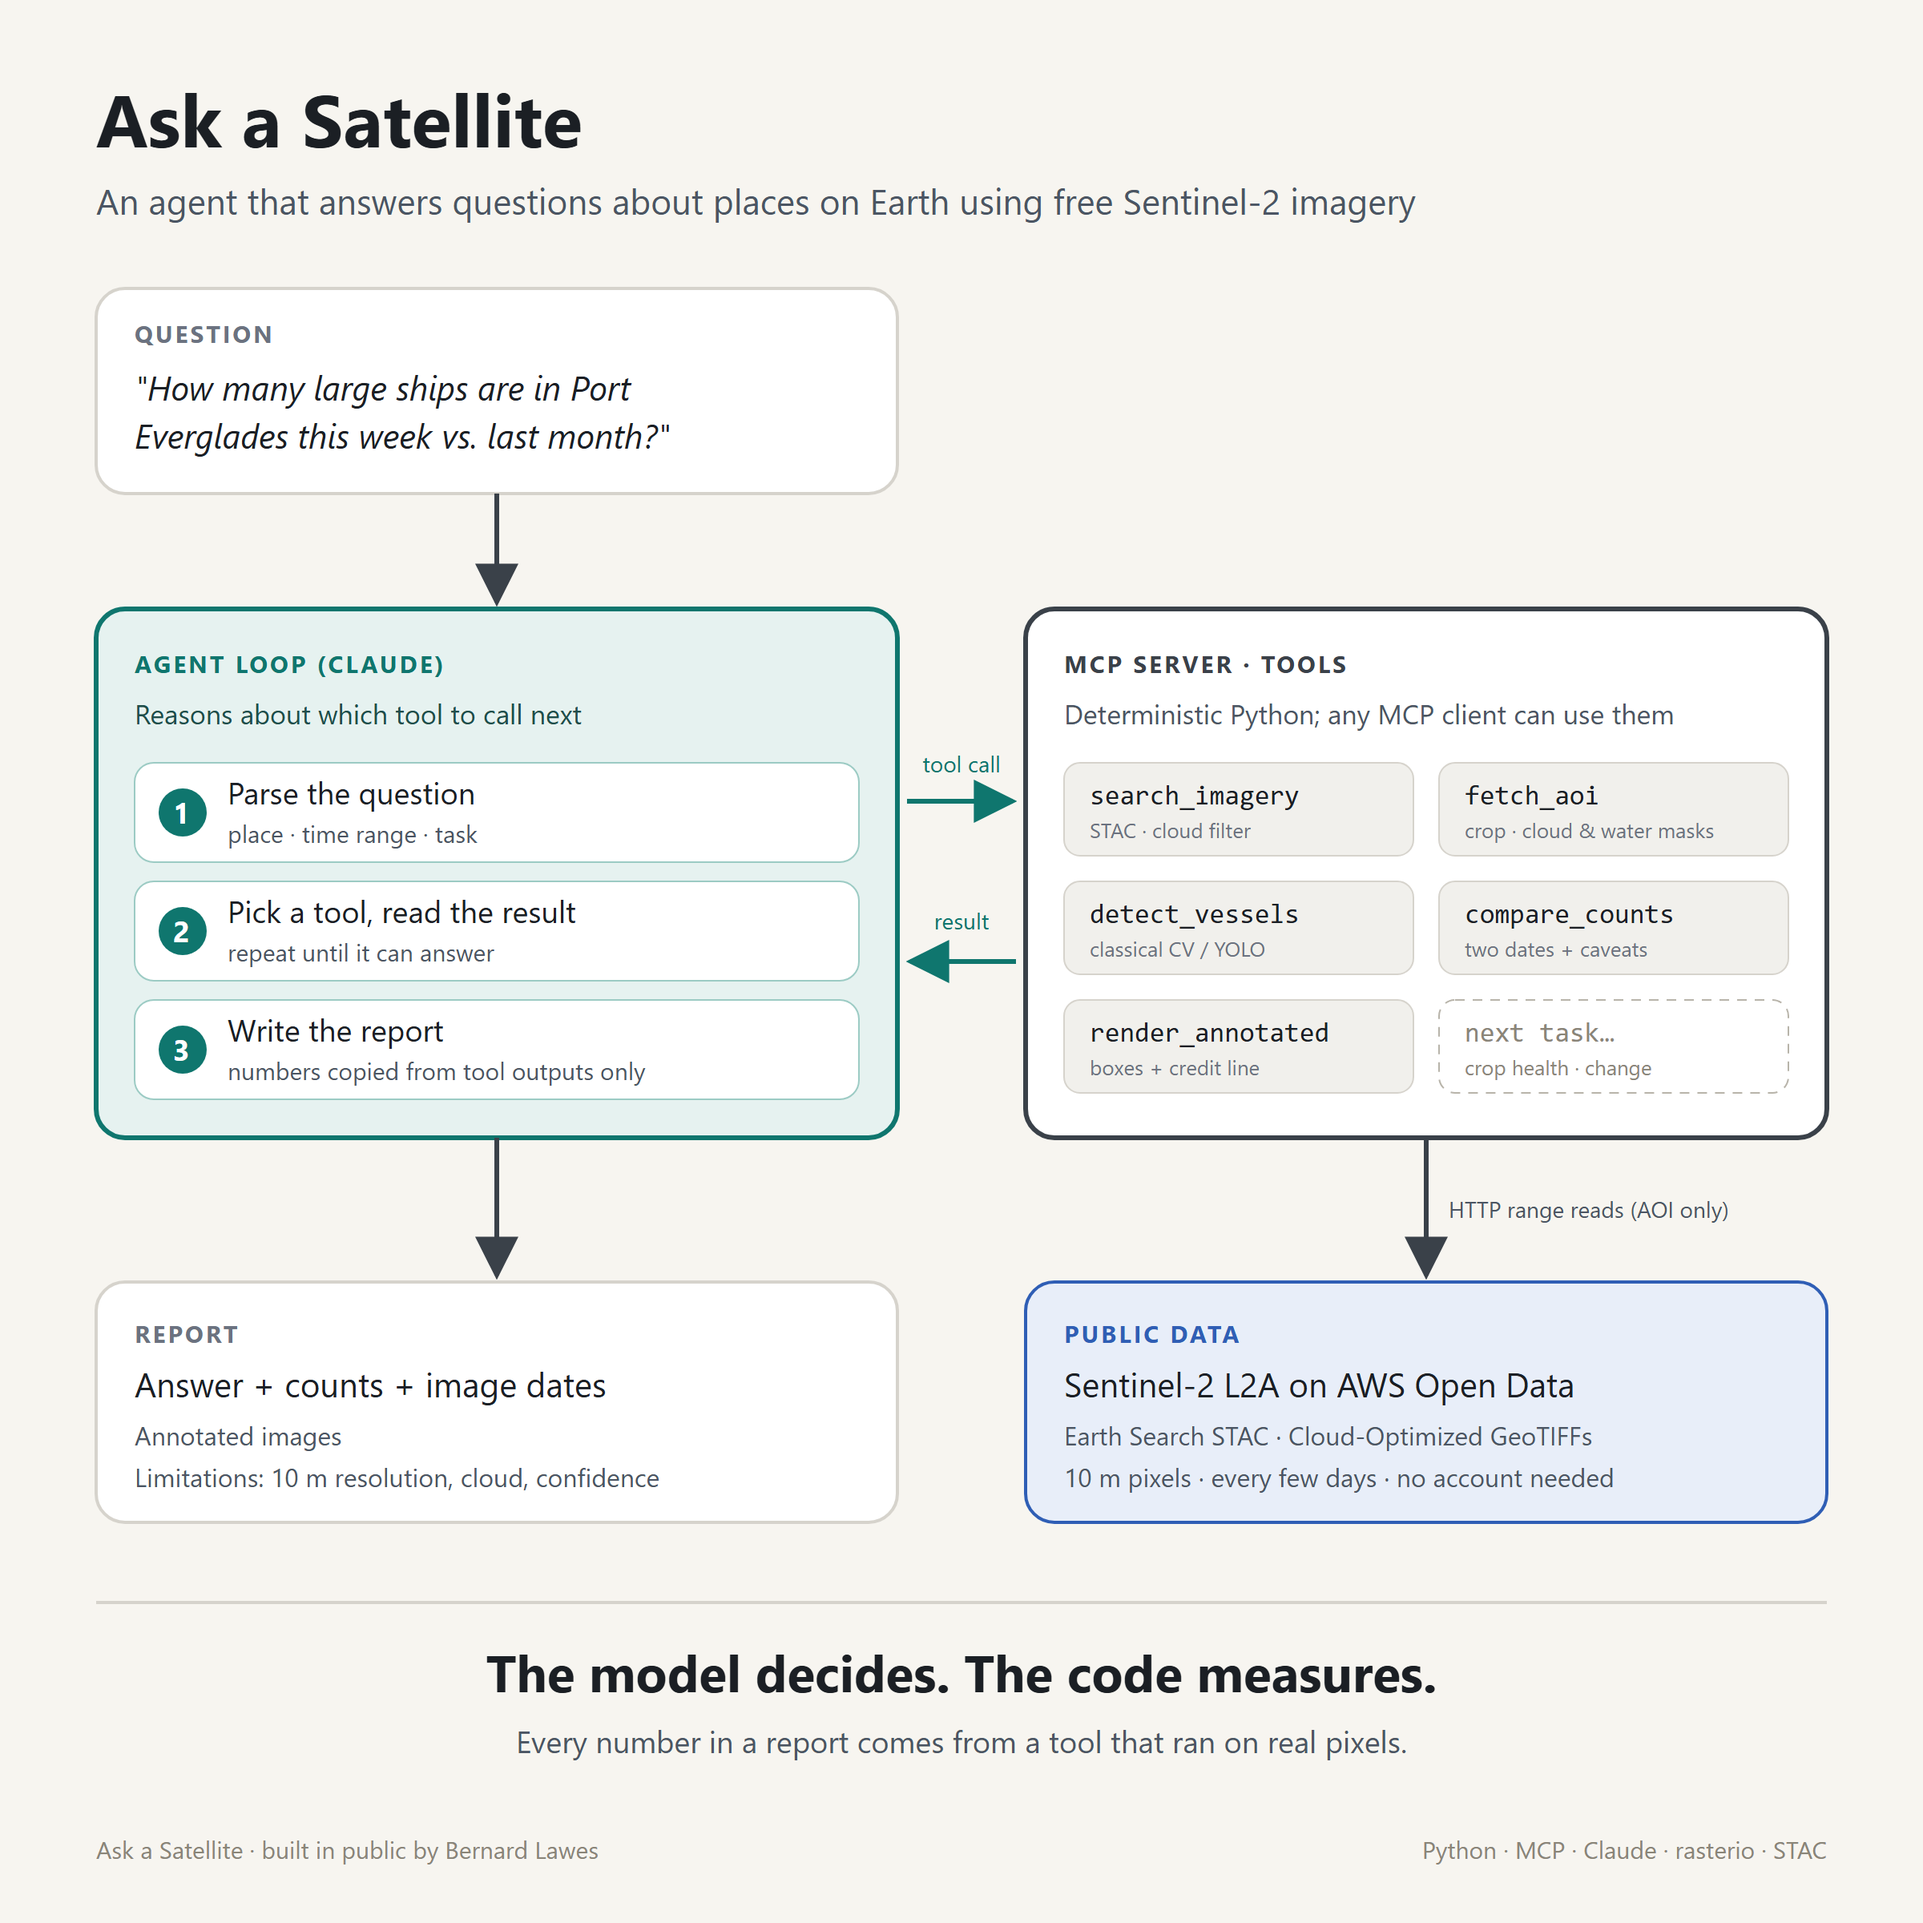
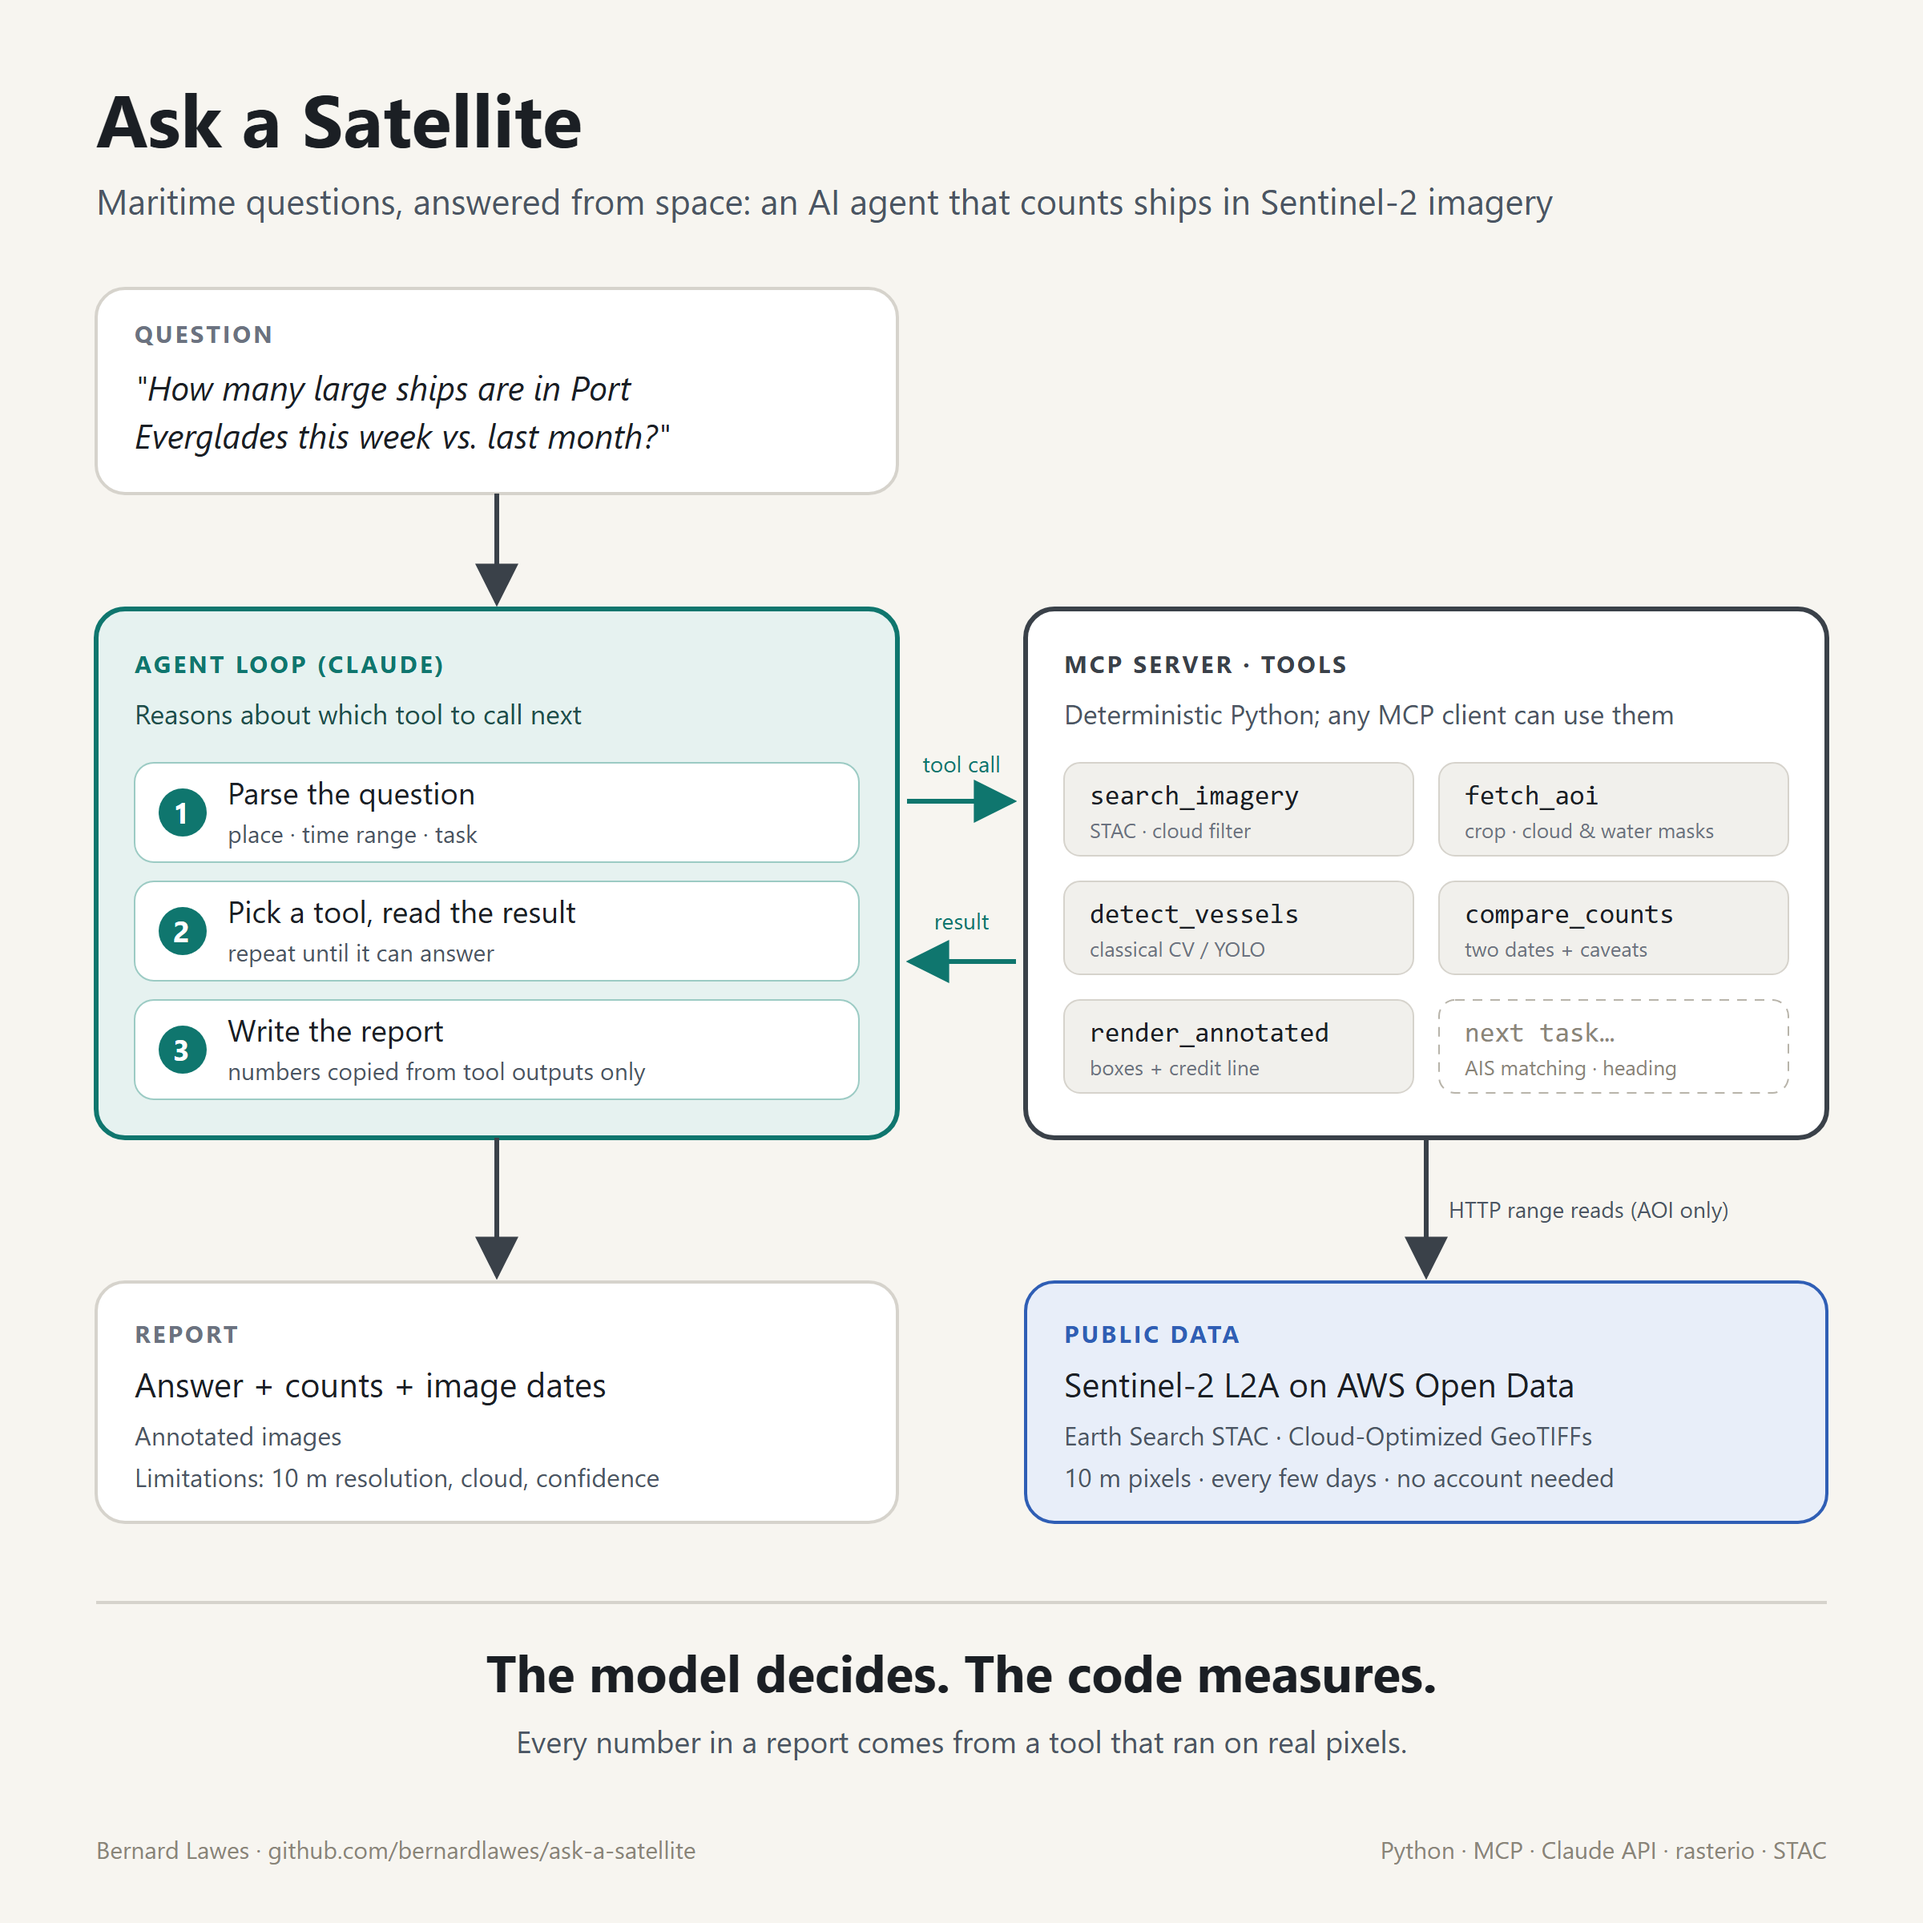
Retitle as a maritime tool and refresh the architecture diagram
- New tagline in the diagram, README and pyproject: "Maritime questions,
  answered from space: an AI agent that counts ships in Sentinel-2 imagery".
- Diagram footer: author byline with the GitHub repo link, and "Claude API"
  in the tech list.
- The next-task example is now "AIS matching · heading" instead of crop
  health, and architecture.md uses match_ais / estimate_heading to match.

diff --git a/docs/architecture.md b/docs/architecture.md
@@ -50,7 +50,7 @@ A designed version of this diagram is in [docs/assets/architecture.png](assets/a
 Keeping core tools separate from MCP and the agent means:
 - tests run offline on synthetic rasters,
 - the same tools work from Claude Desktop, Claude Code, or any other MCP client,
-- a new task (crop health, change detection) is a new module in `tools/` plus one MCP registration.
+- a new task (AIS matching, heading estimation) is a new module in `tools/` plus one MCP registration.
 
 ## Data flow for one detection
 
@@ -128,5 +128,6 @@ A new task adds:
 3. a report section renderer.
 
 The agent's system prompt does not list tasks. It discovers them from the MCP tool menu. Examples:
-`crop_health` (NDVI time series over a field polygon), `detect_change` (NDWI/NDBI differencing between
-two dates).
+`match_ais` (pair detections with public AIS positions near the overpass time, and flag ships with no
+AIS match; the data source and its licence are checked before use), `estimate_heading` (each ship's
+orientation from the blob's image moments, which the detector already computes).

diff --git a/README.md b/README.md
@@ -1,7 +1,7 @@
 # Ask a Satellite
 
-An agent that answers plain-language questions about places on Earth using public Sentinel-2 imagery,
-and shows its evidence.
+Maritime questions, answered from space: an AI agent that counts ships in Sentinel-2 imagery, and
+shows its evidence.
 
 > *"How many large ships are in Port Everglades this week, and how does that compare to last month?"*
 
